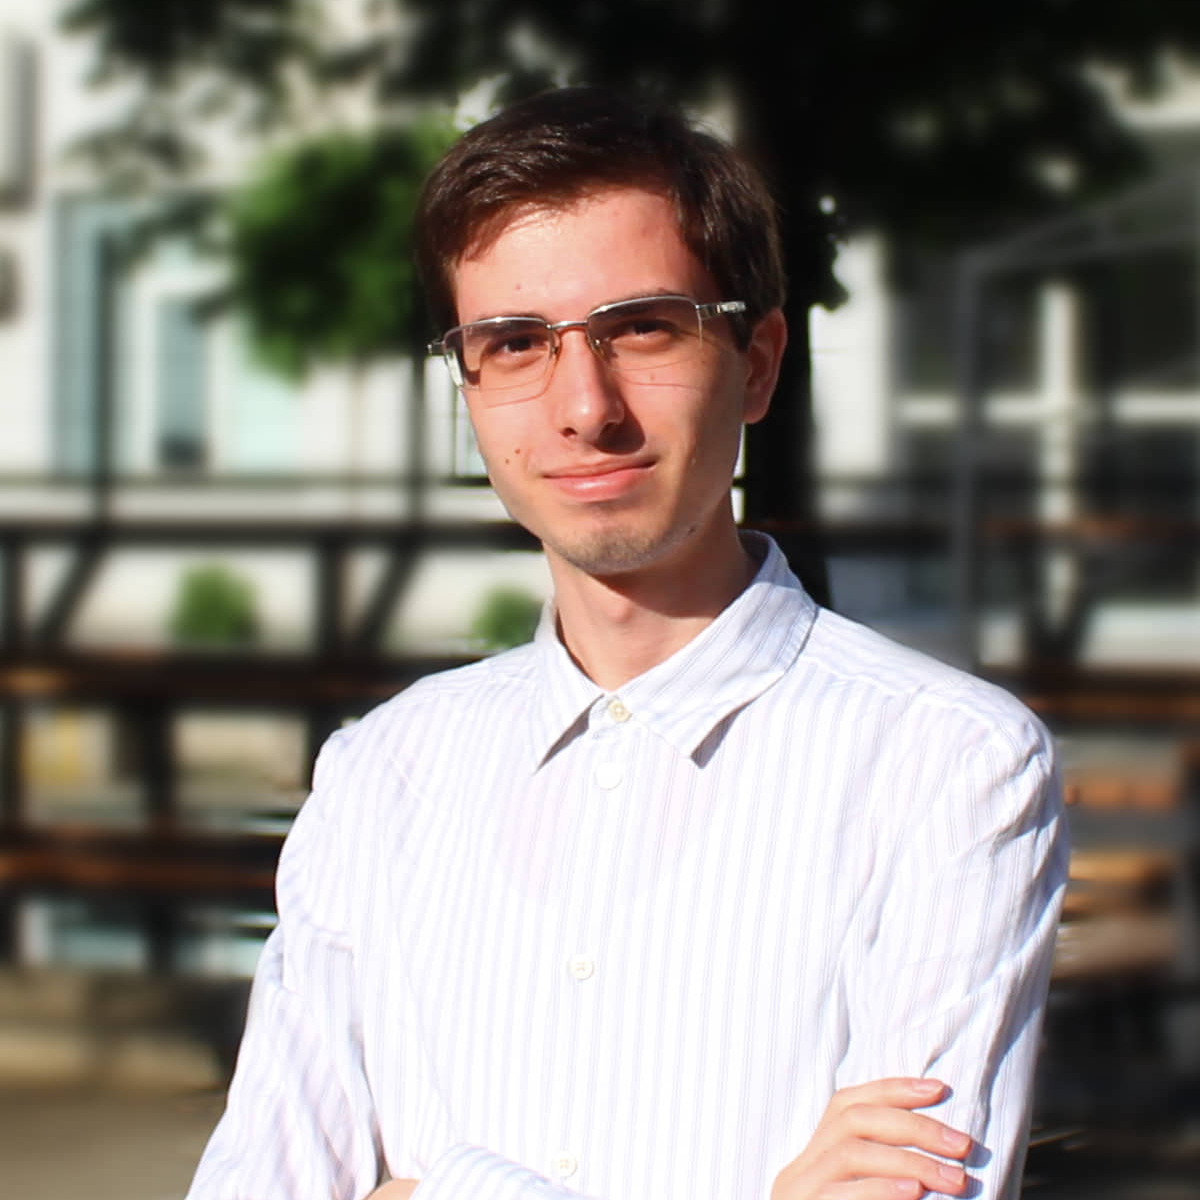
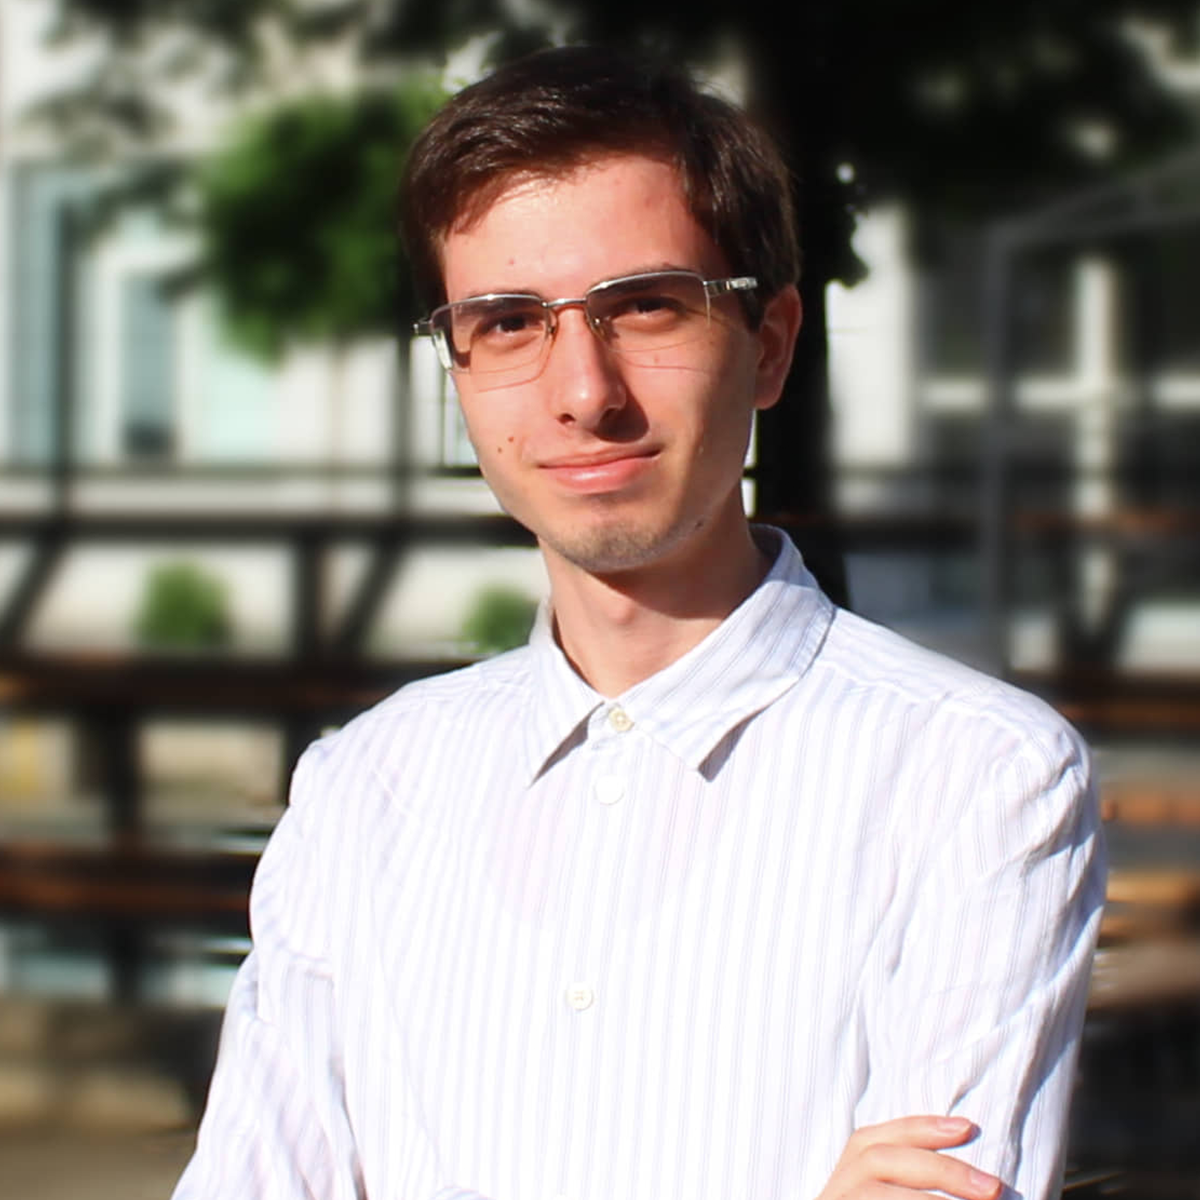
Added Eka.

diff --git a/members.html b/members.html
@@ -117,10 +117,10 @@
 						    </div>
 						  </div>
 						  <div class="card">
-						    <img src="images/GAPS Logo v1.png" class="card-img-top" alt="...">
+						    <img src="images/members/Eka_Dadiani.png" class="card-img-top" alt="...">
 						    <div class="card-body">
 						      <h5 class="card-title" style="color:#dd211d;">ეკატერინე დადიანი</h5>
-									<h5>დასავლეთის მეფის ასული, რავიცი</h5>
+									<h5>ნაყინის სტრუქტურის კვლევის ხელმძღვანელი</h5>
 						    </div>
 						  </div>
 							<div class="card">
